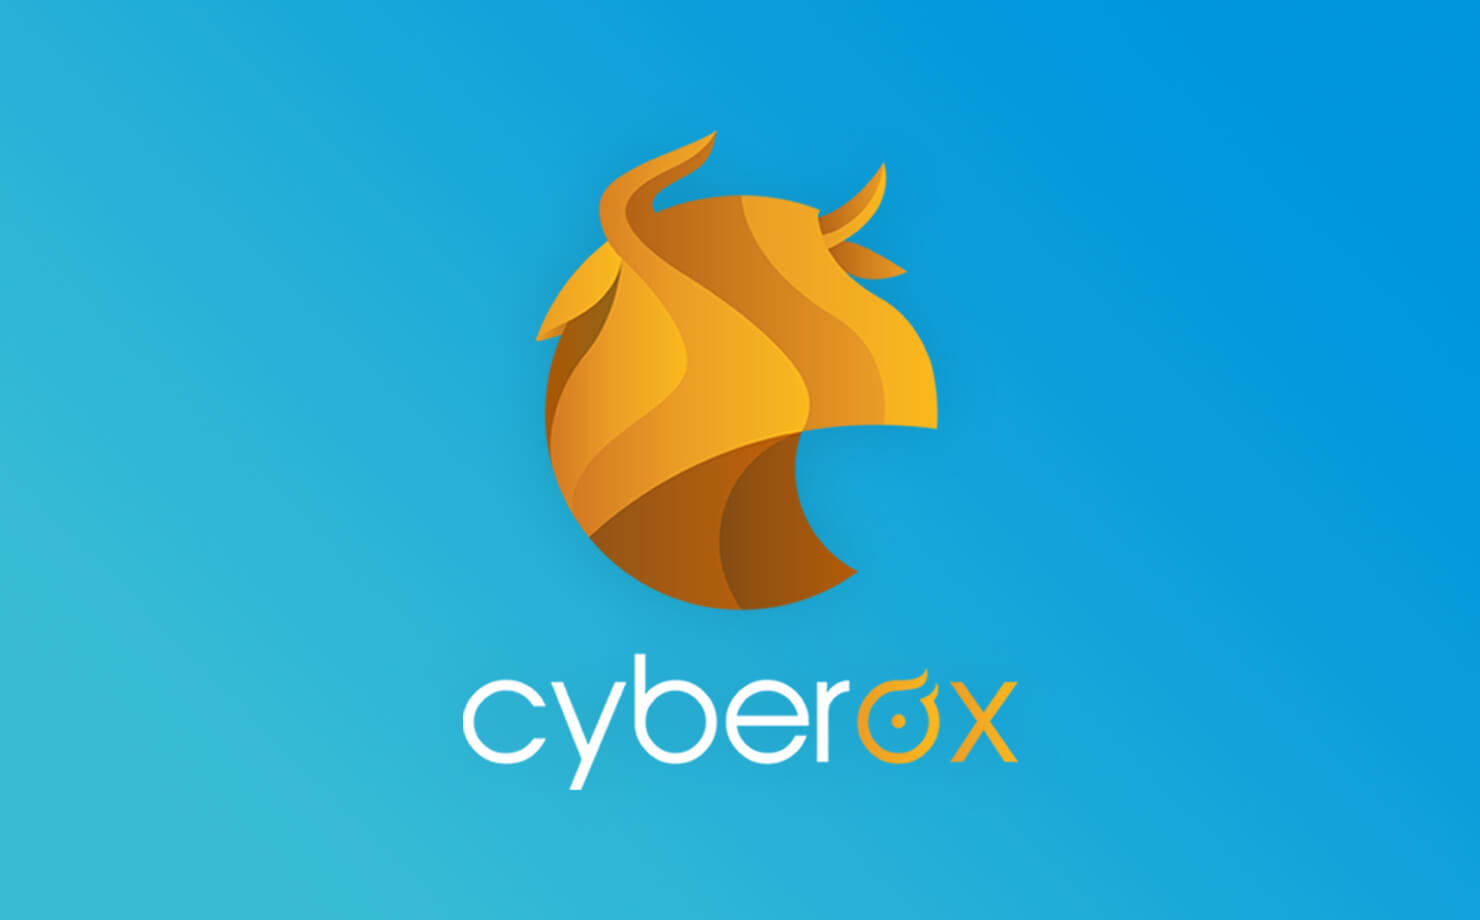
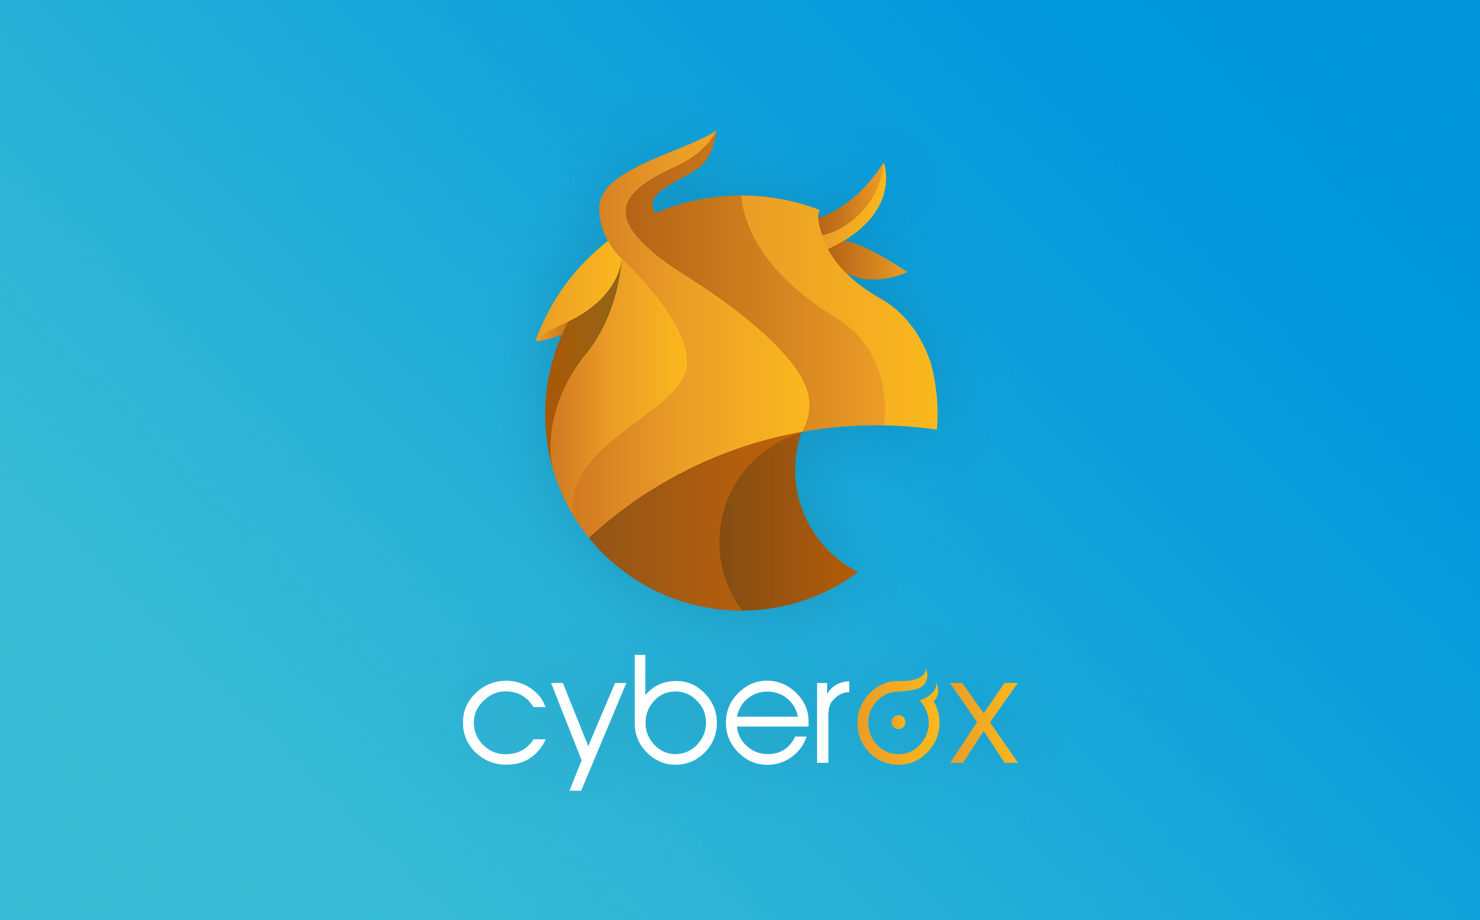
Images updated

diff --git a/css/main.css b/css/main.css
@@ -523,9 +523,9 @@ main {
     padding-right: 12px; }
     .container.flx .fl-img img {
       display: block;
-      width: 100%;
       margin: 0 0;
-      max-width: 420px; }
+      width: 100%;
+      max-width: calc(0.6vw + 362px); }
   .container.flx .fl-text {
     -webkit-box-flex: 1.5;
     -ms-flex: 1.5;
@@ -556,7 +556,7 @@ header {
   width: 100%;
   max-width: 100%;
   height: 100vh;
-  min-height: 680px;
+  min-height: 740px;
   display: block;
   background: #FFFFFF; }
   header h1 {
@@ -573,7 +573,7 @@ header {
       font-weight: 600;
       font-family: 'LuloCleanOutline-Bold', sans-serif; }
   header .fl-img {
-    padding-top: 1.8vw; }
+    padding-top: 0.88vw; }
   header.white h1, header.white p {
     color: #FFFFFF; }
   header.bi-header .header-bg {
@@ -1359,6 +1359,7 @@ p {
     padding-right: 0px;
     padding-bottom: 44px; }
     .fl-img img {
+      width: 100%;
       max-width: calc(32vw + 140px) !important; }
   .fl-text {
     padding-left: 0px; }
@@ -1442,6 +1443,8 @@ p {
     padding: 66px 0 66px 0; }
     .case-about h2 {
       margin-top: 0; }
+  .case-study .container {
+    padding-left: 22px; }
   .case-study p {
     padding-right: 22px;
     margin-top: 12px; }

diff --git a/scss/main.scss b/scss/main.scss
@@ -542,9 +542,10 @@ main {
     padding-right: 12px;
     img {
       display: block;
-      width: 100%;
       margin: 0 0;
-      max-width: 420px;
+      width: 100%;
+      max-width: calc(0.6vw + 362px);
+
     }
   }
   .fl-text {
@@ -579,7 +580,7 @@ header {
   width: 100%;
   max-width: 100%;
   height: 100vh;
-  min-height: 680px;
+  min-height: 740px;
   display: block;
   background: #FFFFFF;
   h1 {
@@ -598,7 +599,7 @@ header {
     }
   }
   .fl-img {
-    padding-top: 1.8vw;
+    padding-top: 0.88vw;
   }
   &.white {
     h1, p {
@@ -1335,6 +1336,7 @@ p {
     padding-right: 0px;
     padding-bottom: 44px;
     img {
+      width: 100%;
       max-width: calc(32vw + 140px) !important;
     }
   }
@@ -1444,6 +1446,9 @@ p {
     h2 {margin-top: 0;}
   }
   .case-study {
+      .container {
+        padding-left: 22px;
+      }
     p {padding-right: 22px; margin-top: 12px;}
   }
   .cs-img {
